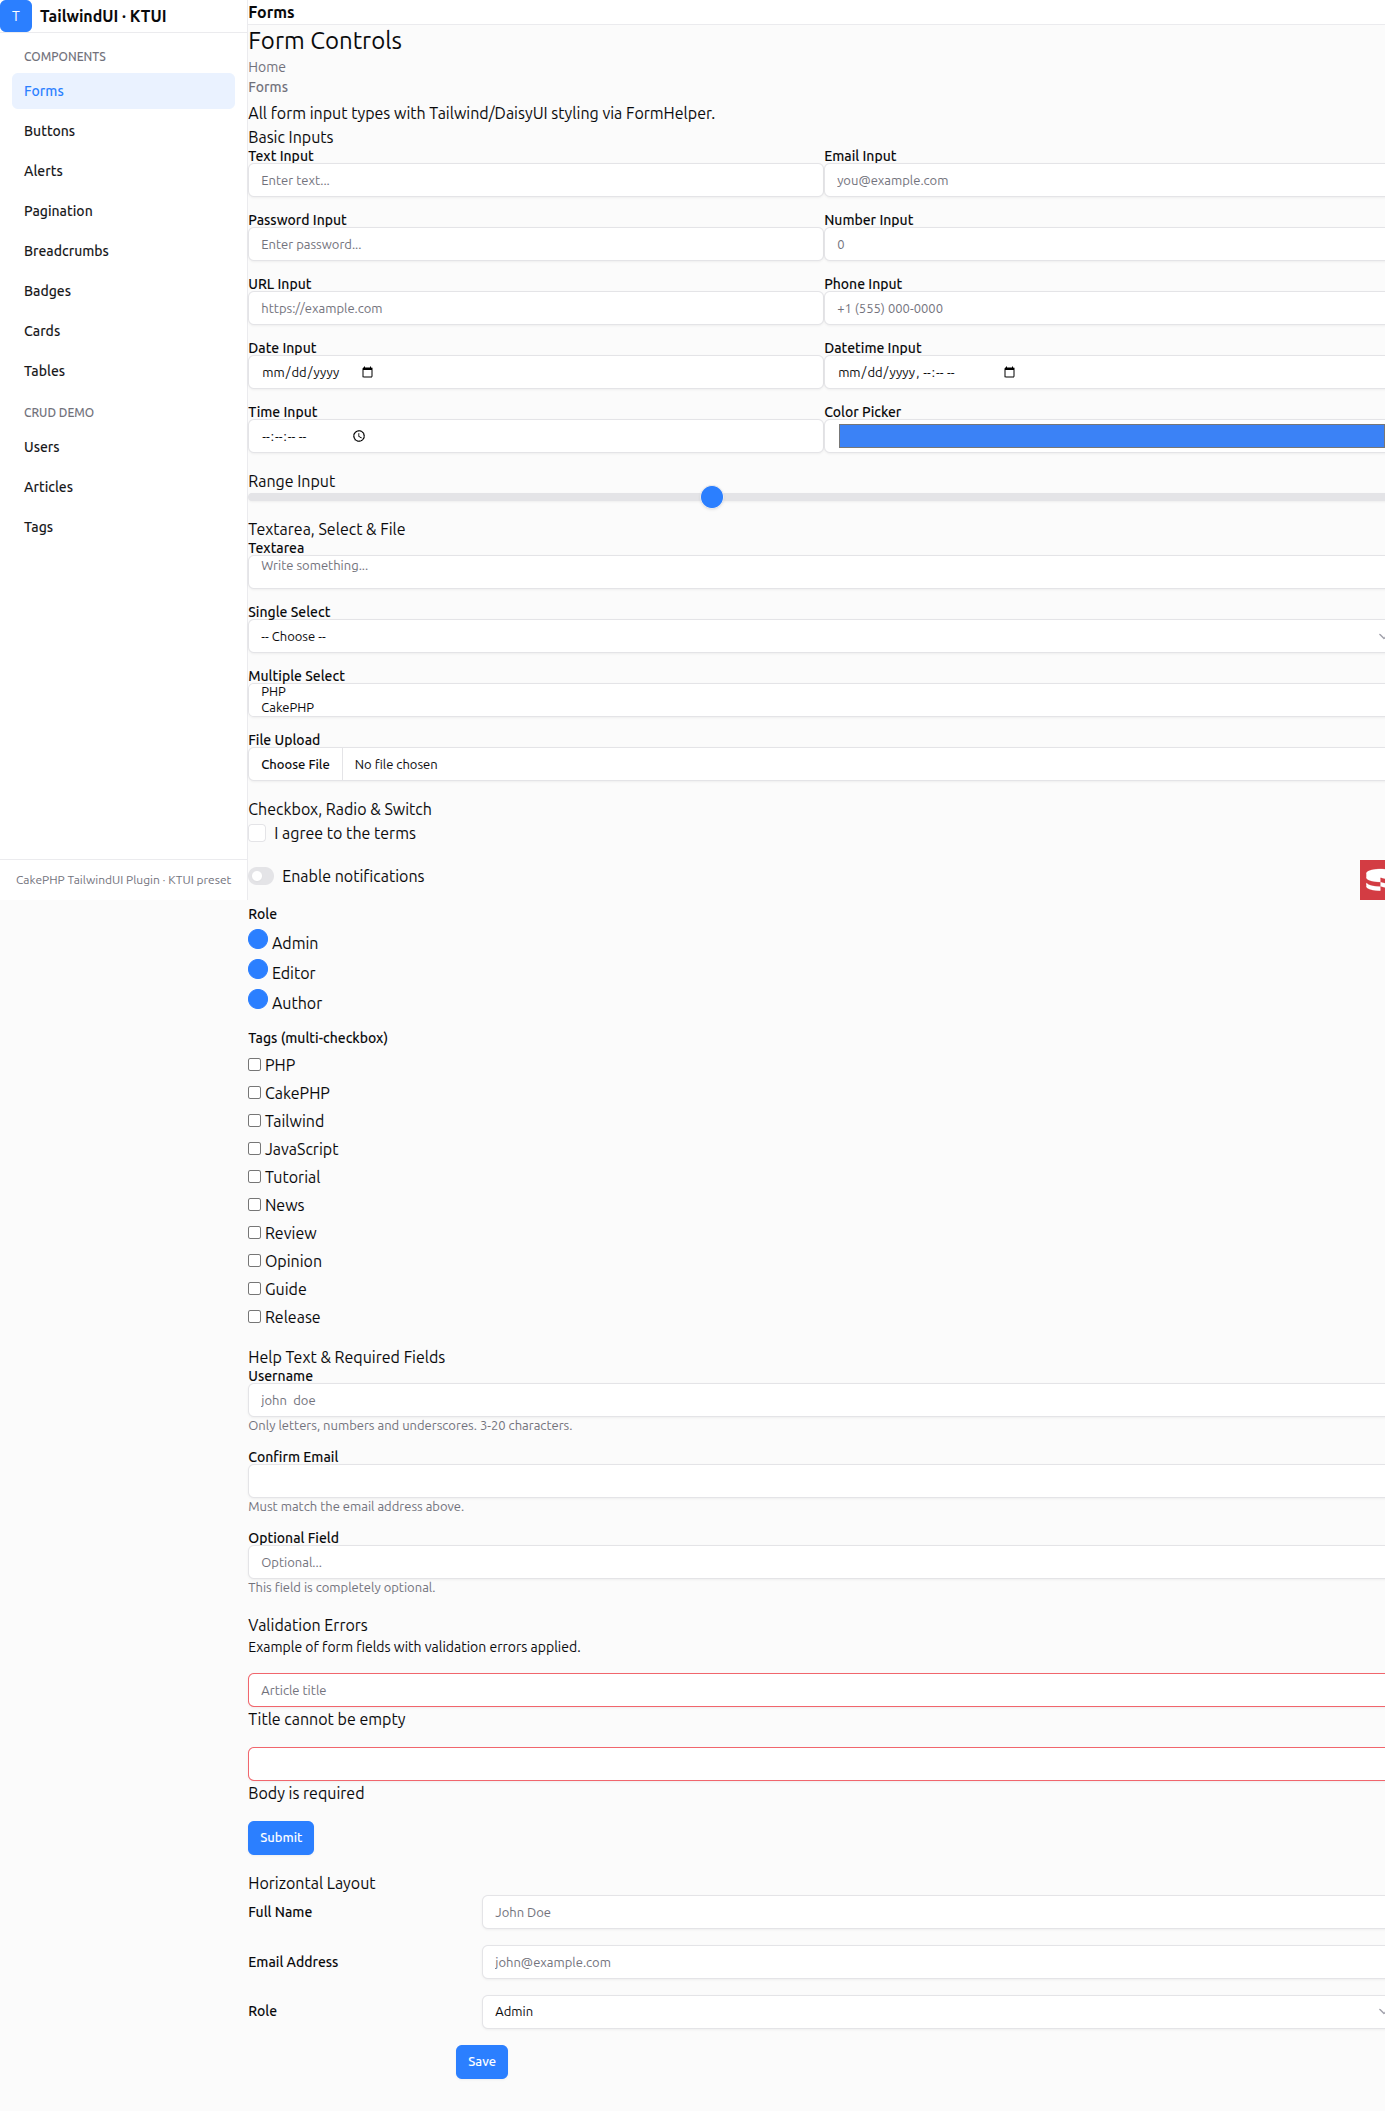
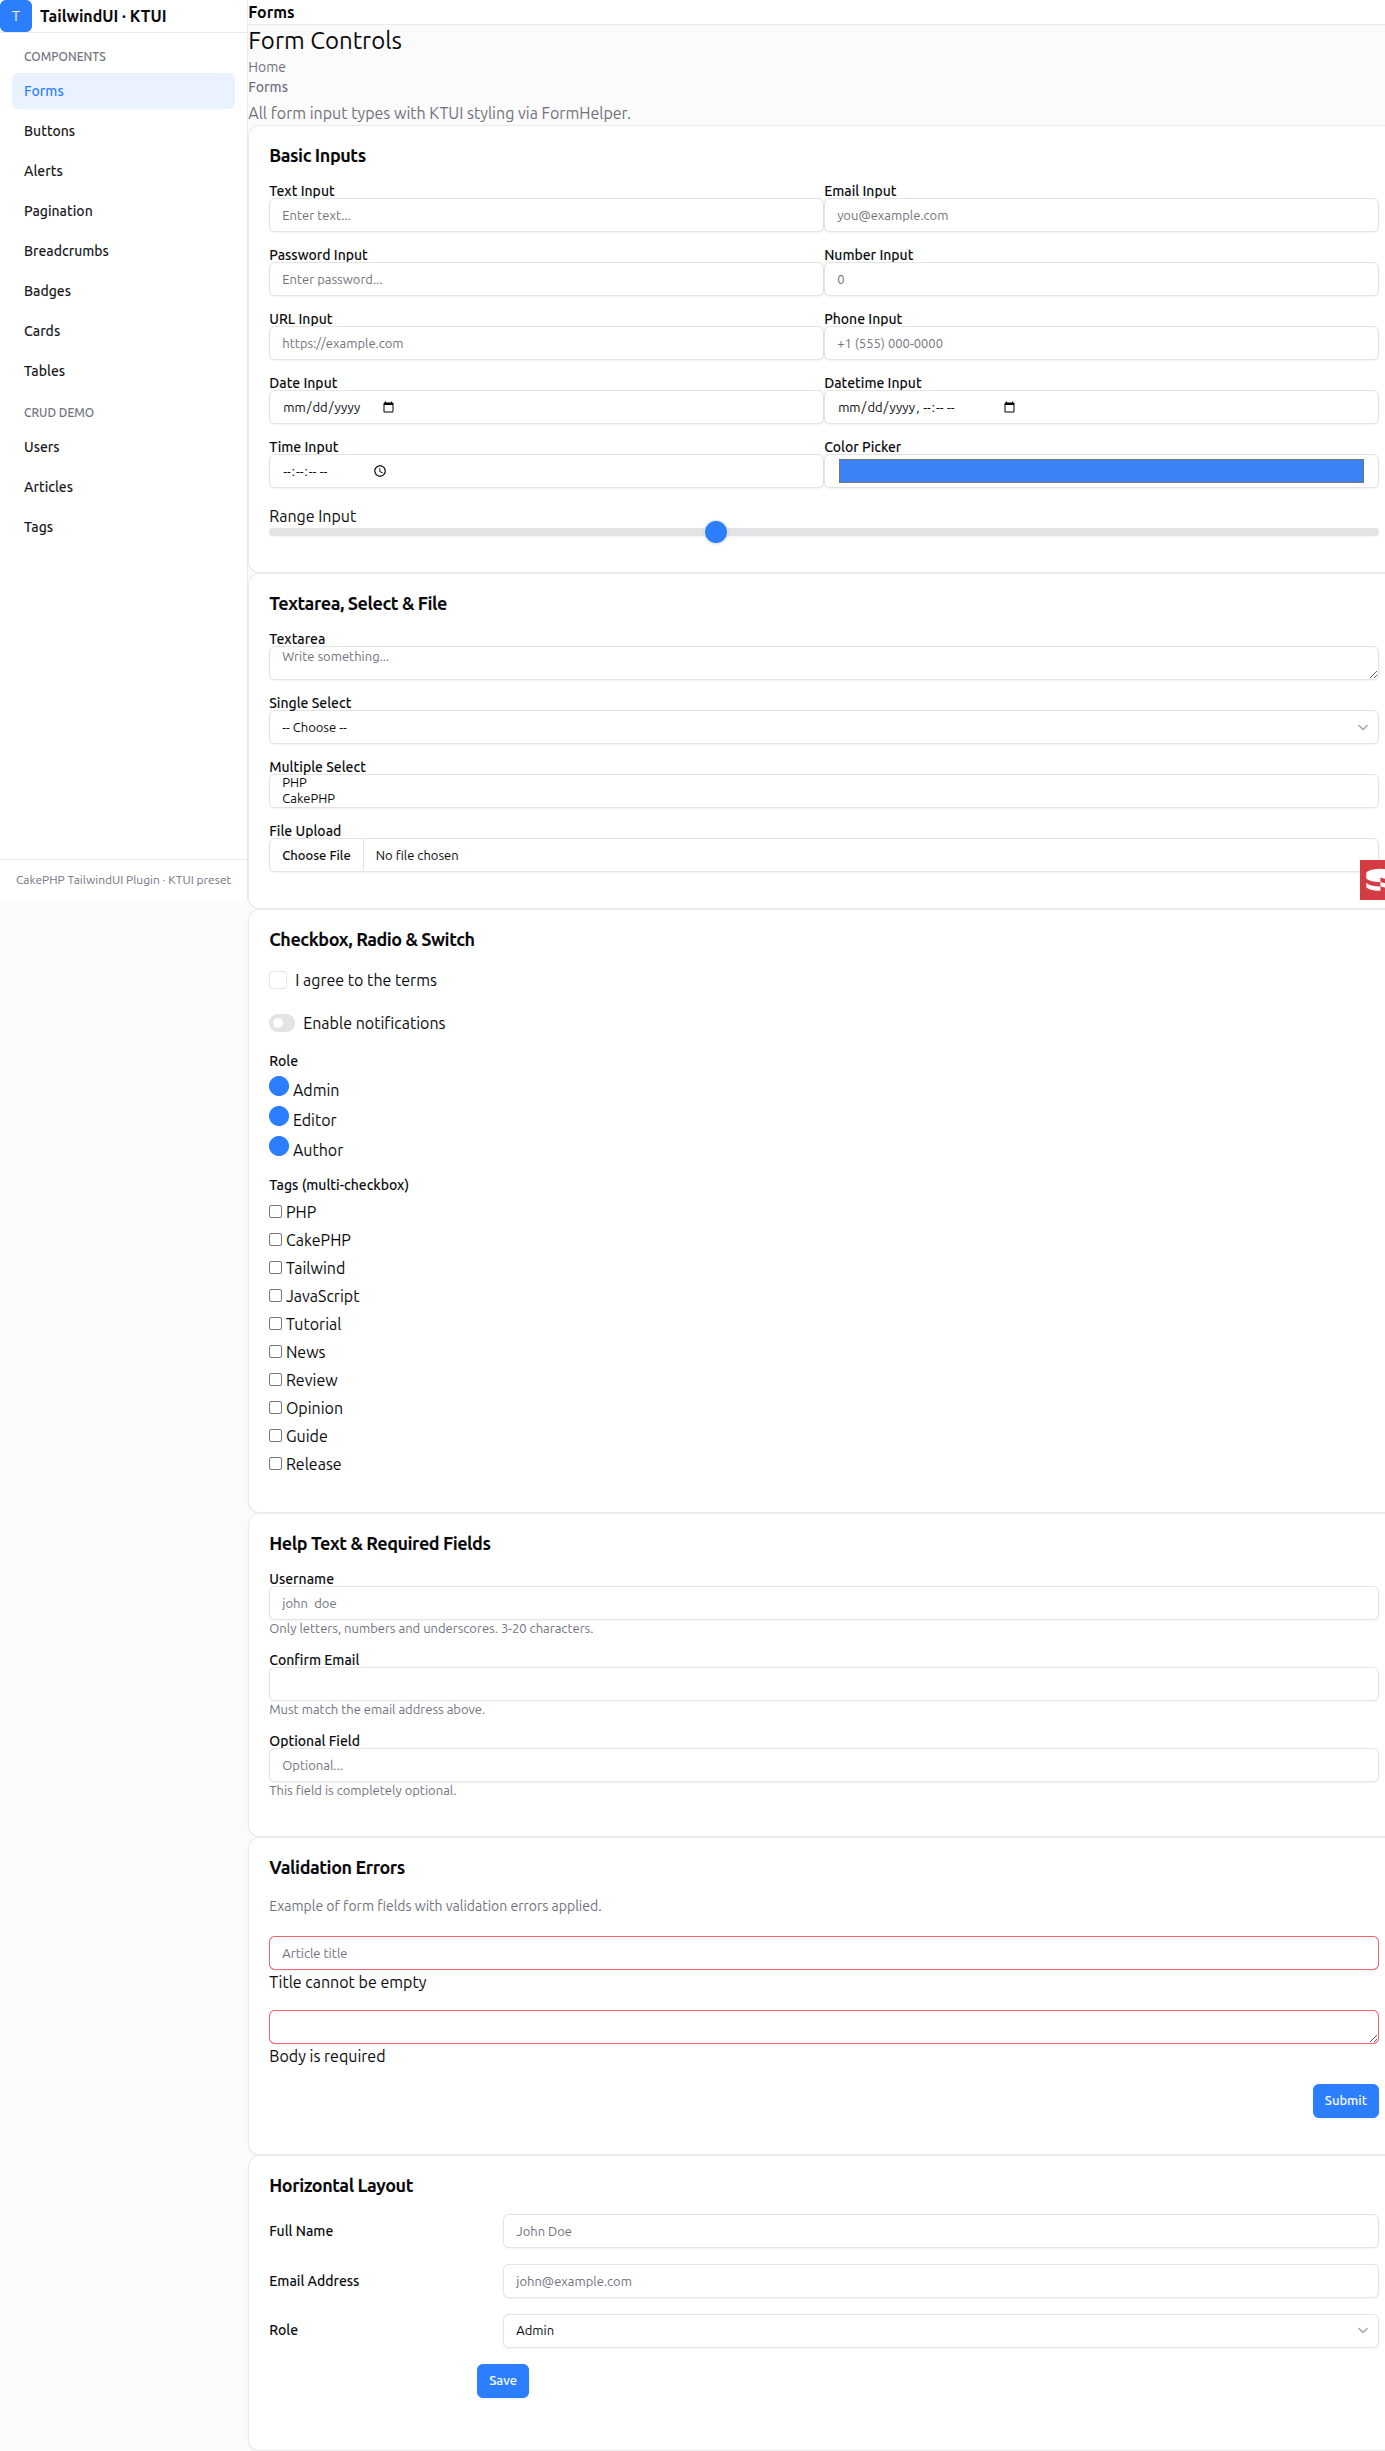
Add full KTUI screenshot set, update docs comparison table
- 11 fresh KTUI screenshots captured against the demo app with KTUI
  template overrides (kt-table, kt-card, kt-badge rendering cleanly)
- Updated docs/README.md comparison table to list every page side-by-side

diff --git a/docs/README.md b/docs/README.md
@@ -87,12 +87,17 @@ The same pages rendered with `Configure::write('TailwindUi.classMap', 'ktui')`.
 
 | Page | DaisyUI | KTUI |
 |---|---|---|
-| Forms | [daisyui-forms.png](screenshots/daisyui-forms.png) | [ktui-forms.png](screenshots/ktui-forms.png) |
+| Form controls | [daisyui-forms.png](screenshots/daisyui-forms.png) | [ktui-forms.png](screenshots/ktui-forms.png) |
 | Buttons | [daisyui-buttons.png](screenshots/daisyui-buttons.png) | [ktui-buttons.png](screenshots/ktui-buttons.png) |
+| Alerts | [daisyui-alerts.png](screenshots/daisyui-alerts.png) | [ktui-alerts.png](screenshots/ktui-alerts.png) |
 | Pagination | [daisyui-pagination.png](screenshots/daisyui-pagination.png) | [ktui-pagination.png](screenshots/ktui-pagination.png) |
+| Breadcrumbs | [daisyui-breadcrumbs.png](screenshots/daisyui-breadcrumbs.png) | [ktui-breadcrumbs.png](screenshots/ktui-breadcrumbs.png) |
+| Badges | [daisyui-badges.png](screenshots/daisyui-badges.png) | [ktui-badges.png](screenshots/ktui-badges.png) |
+| Cards | [daisyui-cards.png](screenshots/daisyui-cards.png) | [ktui-cards.png](screenshots/ktui-cards.png) |
+| Tables | [daisyui-tables.png](screenshots/daisyui-tables.png) | [ktui-tables.png](screenshots/ktui-tables.png) |
 | Users index | [daisyui-users-index.png](screenshots/daisyui-users-index.png) | [ktui-users-index.png](screenshots/ktui-users-index.png) |
 | Articles index | [daisyui-articles-index.png](screenshots/daisyui-articles-index.png) | [ktui-articles-index.png](screenshots/ktui-articles-index.png) |
-| Articles add | [daisyui-articles-add.png](screenshots/daisyui-articles-add.png) | [ktui-articles-add.png](screenshots/ktui-articles-add.png) |
+| Articles add form | [daisyui-articles-add.png](screenshots/daisyui-articles-add.png) | [ktui-articles-add.png](screenshots/ktui-articles-add.png) |
 
 ## Demo app
 
